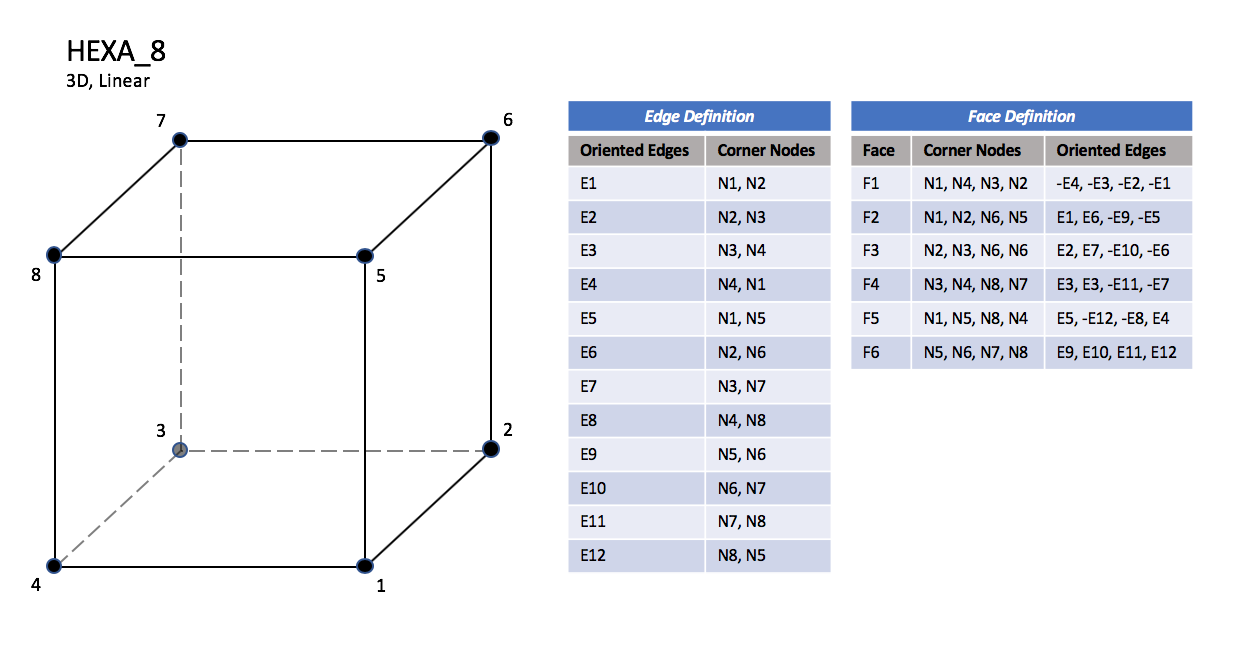
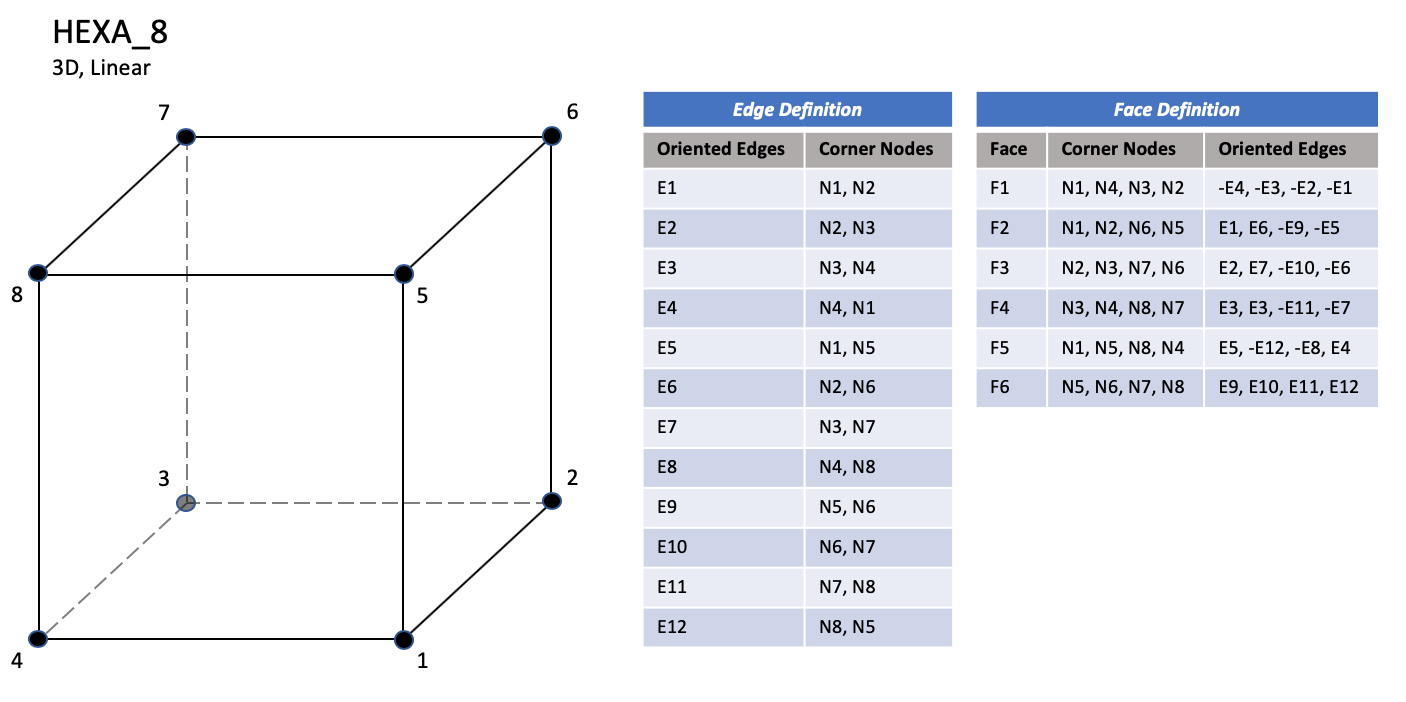
Fixed a few typos among the HEX element tables for Unstructured Grid Element Numbering Conventions

diff --git a/CGNS_docs_current/sids/conv.html b/CGNS_docs_current/sids/conv.html
@@ -2590,6 +2590,7 @@ in the case of <tt>HEXA_98</tt>, and 54 interior face nodes and an additonal
        </table>
 -->
 </table>
+<p>NOTE: Prior to 7/19/2019, there was a typo in F3 corner nodes definition for HEXA_8, HEXA_20, and HEXA_27.
 
 <!--<br>
 <table cellspacing=0 cellpadding=0 border=0>
@@ -2664,6 +2665,9 @@ in the case of <tt>HEXA_98</tt>, and 54 interior face nodes and an additonal
    <td><tt> </tt><br>
        <img src="conv.figs/hexa_56_64_table.png" width=85% alt="HEXA_56 and HEXA_64 element table">
 </table>
+<p>NOTE: Prior to 7/19/2019, there was a typo in F3 corner nodes definition for HEXA_32, HEXA_56, and HEXA_64,
+and F5 mid-face nodes were mis-ordered in HEXA_56 and HEXA_64.
+<br>
 
 <!--<br>
 <table cellspacing=0 cellpadding=0 border=0>
@@ -2829,6 +2833,8 @@ in the case of <tt>HEXA_98</tt>, and 54 interior face nodes and an additonal
    <td><tt> </tt><br>
        <img src="conv.figs/hexa_98_125_table.png" width=85% alt="HEXA_98 and HEXA_125 element table">
 </table>
+<p>NOTE: Prior to 7/19/2019, there was a typo in F3 corner nodes definition for HEXA_44, HEXA_98, and HEXA_125,
+and F5 mid-face nodes were mis-ordered in HEXA_98 and HEXA_125.
 
 <!--<br>
 <table cellspacing=0 cellpadding=0 border=0>
@@ -3246,7 +3252,7 @@ role of donor zone.
 <hr size=4 width=75%>
 <div class=footer>
 <!--#include virtual="../include/footer_small.html" -->
-Last updated 21 May 2019 (figures and tables in Unstructured Grid Element Numbering Conventions redone)
+Last updated 19 July 2019 (figures and tables in Unstructured Grid Element Numbering Conventions redone)
 
 </body>
 </html>

diff --git a/CGNS_docs_current/whatsnew.html b/CGNS_docs_current/whatsnew.html
@@ -48,6 +48,14 @@
 <table>
 
 <tr valign=baseline>
+<td> <b>19&nbsp;July&nbsp;2019</b>
+<td> <ul>
+     <li>Fixed a few typos among the HEX element tables for
+          <a href="sids/conv.html#unstructgrid">Unstructured Grid Element Numbering Conventions</a>.
+          This included fixing a typo in F3 corner nodes definition for HEXA_8, HEXA_20, HEXA_27,
+          HEXA_32, HEXA_56, HEXA_64, HEXA_44, HEXA_98, and HEXA_125. 
+          Also, there was a fix in the F5 mid-face node ordering in HEXA_56, HEXA_64, HEXA_98, and HEXA_125.
+<tr valign=baseline>
 <td> <b>25&nbsp;Jun&nbsp;2019</b>
 <td> <ul>
      <li>Posted draft minutes from the
@@ -2561,7 +2569,7 @@ other than the addition of the new quartic elements from CPEX 0038 to the MLL in
 <hr size=4 width=75%>
 <div class=footer>
 <!--#include virtual="include/footer_big.html" -->
-Last updated 25 Jun 2019
+Last updated 19 Jul 2019
 
 </body>
 </html>
